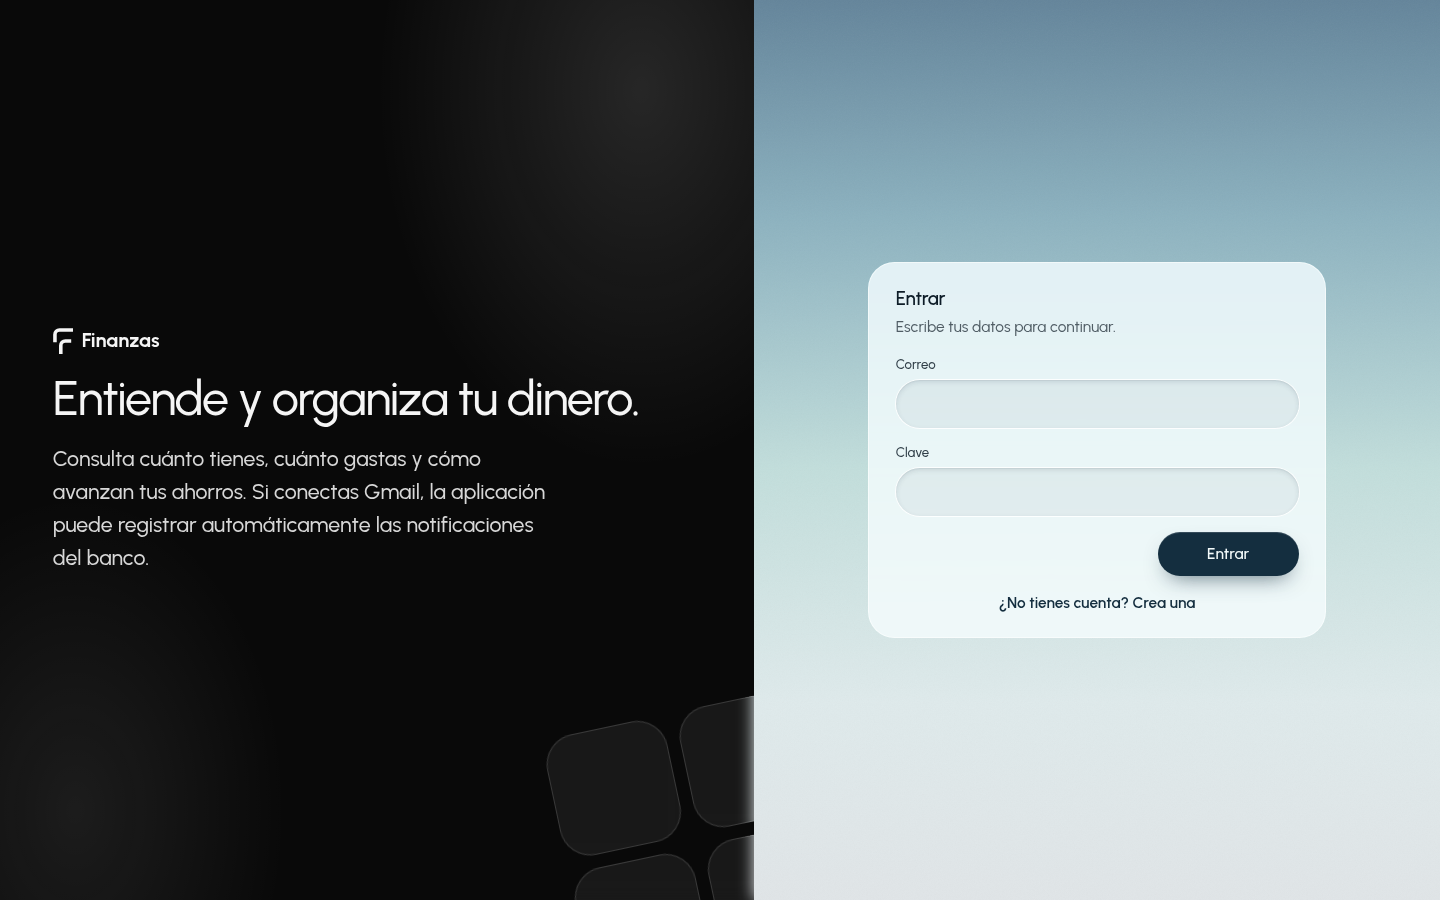
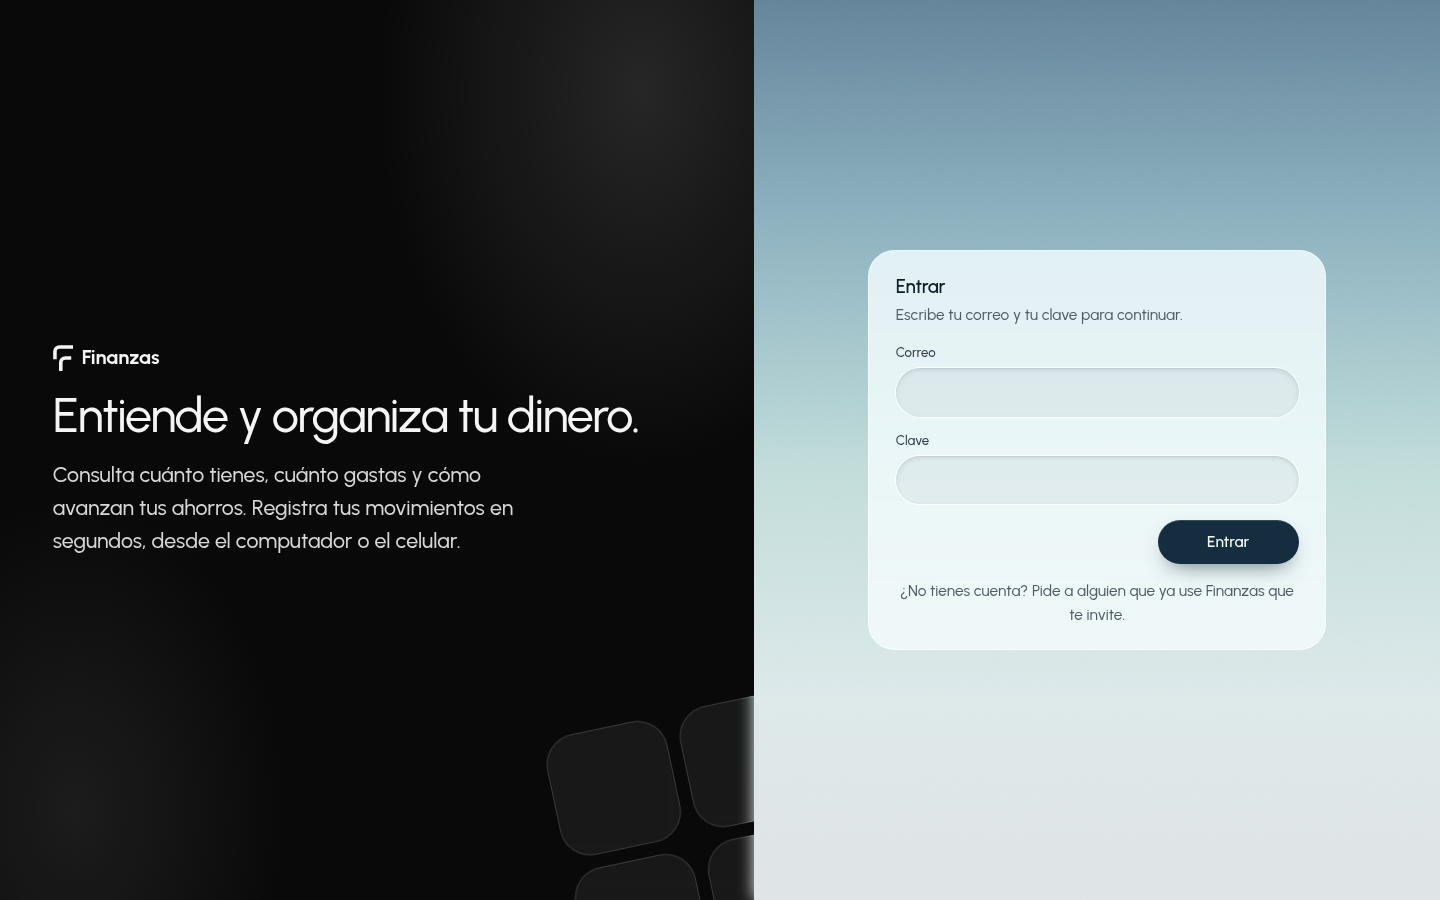
feat: actualizar documentación y mejorar lógica de registro de movimientos recurrentes

diff --git a/scripts/seed.ts b/scripts/seed.ts
@@ -67,7 +67,10 @@ if ((await pb.collection("recurring").getList(1, 1)).totalItems === 0) {
   const acc = (n: string) => accs.find((a) => a.name === n)?.id ?? "";
   const cat = (n: string) => cats.find((c) => c.name === n)?.id ?? "";
   const main = acc("Banco Principal");
-  const today = new Date().toISOString().slice(0, 10);
+  // El plan empieza en el mes del primer movimiento del registro, para que
+  // cubra todo lo importado aunque el registro sea de meses atrás.
+  const first = plan.transactions.reduce((m, t) => (t.date < m ? t.date : m), new Date().toISOString().slice(0, 10));
+  const start = `${first.slice(0, 7)}-01`;
 
   const RECURRING = [
     { name: "Sueldo", kind: "income", amount: 6500000, day_of_month: 1, category: cat("Salario") },
@@ -78,7 +81,7 @@ if ((await pb.collection("recurring").getList(1, 1)).totalItems === 0) {
     { name: "Declaración de renta", kind: "expense", amount: 60000, day_of_month: 1, category: cat("Impuestos") },
   ];
   for (const x of RECURRING) {
-    await pb.collection("recurring").create({ ...x, owner, frequency: "monthly", account: main, start_date: today });
+    await pb.collection("recurring").create({ ...x, owner, frequency: "monthly", account: main, start_date: start });
   }
 
   const SAVINGS = [
@@ -86,8 +89,14 @@ if ((await pb.collection("recurring").getList(1, 1)).totalItems === 0) {
     { name: "Viaje a Cartagena", monthly_amount: 300000, palette: "mono-teal", icon: "airplane-01", annual_rate: 9, account: "Fondo de inversión", target: 4000000 },
     { name: "Retiro", monthly_amount: 100000, palette: "mono-emerald", icon: "umbrella", annual_rate: 10, account: "Fondo de inversión" },
   ];
+  // Un aporte de cada ahorro el día 15 de cada mes del registro, hasta su último movimiento.
+  const last = plan.transactions.reduce((m, t) => (t.date > m ? t.date : m), first);
+  const months: string[] = [];
+  for (let d = new Date(`${start}T12:00:00Z`); d.toISOString().slice(0, 10) <= last; d.setUTCMonth(d.getUTCMonth() + 1)) {
+    if (`${d.toISOString().slice(0, 7)}-15` <= last) months.push(`${d.toISOString().slice(0, 7)}-15`);
+  }
   for (const s of SAVINGS) {
-    await pb.collection("savings").create({
+    const saving = await pb.collection("savings").create({
       owner,
       name: s.name,
       icon: s.icon,
@@ -99,8 +108,18 @@ if ((await pb.collection("recurring").getList(1, 1)).totalItems === 0) {
       allocations: [{ account: acc(s.account) || main, percent: 100 }],
       auto: false,
     });
+    const account = acc(s.account) || main;
+    for (const date of months) {
+      await pb.collection("saving_movements").create({
+        saving: saving.id,
+        account,
+        created_by: owner,
+        amount: s.monthly_amount,
+        date: `${date} 12:00:00.000Z`,
+      });
+    }
   }
-  console.log(`Plan: ${RECURRING.length} fijos y ${SAVINGS.length} ahorros.`);
+  console.log(`Plan: ${RECURRING.length} fijos y ${SAVINGS.length} ahorros con ${months.length} aportes cada uno.`);
 }
 
 console.log(`Listo para ${email}.`);

diff --git a/README.md b/README.md
@@ -19,82 +19,92 @@ Finanzas es una app web para llevar las cuentas de la casa: cuánto entra, cuán
 
 ## Entrar
 
-Cada persona crea su cuenta con su correo y una clave, y solo ve sus propios datos. La pantalla de entrada se adapta al computador y al celular.
+Cada persona entra con su correo y su clave, y solo ve sus propios datos. Las cuentas nuevas se crean **solo por invitación**: quien ya usa la app crea un enlace en *Ajustes → Cuenta y datos → Invitar personas* y se lo envía a la otra persona. Con ese enlace, la persona elige su clave y entra. El enlace sirve una sola vez y vence a los 7 días. En una instalación nueva, sin usuarios, la primera persona crea su cuenta desde la pantalla de entrada.
 
-| En el computador | En el celular |
-|:---:|:---:|
-| <img src="docs/capturas/login.png" alt="Inicio de sesión en el computador" width="560"> | <img src="docs/capturas/movil-login.png" alt="Inicio de sesión en el celular" width="220"> |
+| En el computador | Con un enlace de invitación | En el celular |
+|:---:|:---:|:---:|
+| <img src="docs/capturas/login.png" alt="Pantalla para entrar en el computador" width="380"> | <img src="docs/capturas/invitacion.png" alt="Pantalla para crear la clave con un enlace de invitación" width="380"> | <img src="docs/capturas/movil-login.png" alt="Pantalla para entrar en el celular" width="170"> |
 
 ## ¿Qué puedes hacer?
 
 ### Ver cómo vas este mes
-El **Resumen** te muestra de un vistazo cuánto dinero tienes en total, cuánto entró y salió este mes y, lo más importante, **cuánto te queda libre para gastar** (o cuánto te pasaste). También verás en qué se te fue la plata y cómo van tus ahorros.
+El **Resumen** te muestra de un vistazo tu **saldo neto** (lo que tienes menos lo que debes), **cuánto puedes gastar** todavía este mes y cuánto llevas ahorrado. Debajo está el análisis del mes.
+
+### Entender en qué se va tu plata
+En el análisis, dentro del **Resumen**, comparas ingresos y gastos por semana, mes o año, y los filtras por etiqueta o por cuenta. Un bloque «En pocas palabras» resume lo importante: cuánto te quedó libre, si gastas más o menos que el mes pasado y qué categoría se llevó más. También ves el ritmo de gasto frente al mes anterior y el reparto por categoría, con un presupuesto para cada una.
+
+![Análisis](docs/capturas/analisis.png)
 
 ### Anotar tus movimientos
-Registra **ingresos, gastos y transferencias** entre cuentas. A cada movimiento le puedes poner categoría, notas, etiquetas y hasta **adjuntar la foto de la factura** o un PDF. Puedes buscar y filtrar por cuenta, categoría o tipo.
+Registra **ingresos, gastos y transferencias** entre cuentas. A cada movimiento le puedes poner categoría, notas, etiquetas y hasta **adjuntar la foto de la factura** o un PDF. Puedes buscar por texto o por monto y filtrar por cuenta, categoría, tipo o etiqueta. Los movimientos se ven como lista, calendario, mes a mes o en total. Con clic derecho seleccionas varios y ves cuánto suman.
+
+Al hacer clic en un monto, la app **copia solo los dígitos**, listos para pegar en la app de tu banco. En el celular, deja el dedo sobre el monto hasta que vibre.
 
 ![Movimientos](docs/capturas/movimientos.png)
 
 ### Tener todas tus cuentas juntas
-Banco, tarjeta de crédito, efectivo, billeteras digitales, inversiones… Cada cuenta muestra su saldo y su color. Ves cuánto tienes en total, cuánto está apartado para ahorros y cuánto debes.
+Banco, efectivo, billeteras digitales, inversiones… Cada cuenta muestra su saldo, cuánto tiene **reservado** para tus ahorros y cuánto queda **disponible**. Las **tarjetas de crédito** van aparte, con su cupo, lo que debes y lo que te queda.
 
 ![Cuentas](docs/capturas/cuentas.png)
 
-### Registrar con un asistente
-Además de anotarlos a mano, puedes pedirle a un asistente (Claude, ChatGPT…) que registre tus movimientos por ti: le cuentas «ayer gasté $45.900 en el mercado con la tarjeta» y lo anota. Se conecta con el token de *Ajustes → Acceso por API* (ver «Y además…»). Si le das acceso a tu Gmail, el asistente puede buscar ahí los avisos de tus bancos y registrarlos; la app recuerda qué correos ya revisó, para que ningún asistente registre dos veces el mismo. La app no lee tu correo ni se conecta a tu banco: todo lo que está en ella lo registraste tú o tu asistente.
-
-### Entender en qué se va tu plata
-Debajo del **Resumen**, en el análisis, comparas ingresos y gastos por semana, mes o año, y ves el reparto por categoría con un presupuesto para cada una.
-
-![Análisis](docs/capturas/analisis.png)
-
-### Ahorrar con metas
-Crea ahorros con **meta, aporte mensual y rentabilidad**. La app calcula para cuándo llegas a la meta. Un ahorro se puede repartir entre varias cuentas y **compartir con otra persona** (por ejemplo, un viaje en pareja): cada quien pone su propio aporte al mes y el del ahorro es la suma de todos. Los aportes pueden ser automáticos.
-
-![Ahorros](docs/capturas/ahorros.png)
-
 ### Gastos e ingresos
-En **Gastos e ingresos** programas tus ingresos (sueldo) y tus pagos de cada mes (arriendo, servicios, seguros), y los marcas a medida que ocurren. Arriba, dos tarjetas responden lo importante del mes:
+En **Gastos e ingresos** programas tus ingresos (el sueldo) y tus pagos habituales (arriendo, servicios, seguros), y los marcas a medida que ocurren. Arriba, dos tarjetas responden lo importante del mes:
 
-- **Dinero por reservar**: tus pagos programados, tus ahorros y lo que debes en tarjetas de crédito (lo gastado este mes y lo que viene de meses anteriores).
+- **Dinero por reservar**: tus pagos programados, tus ahorros y lo que debes en tarjetas de crédito.
 - **Disponible para gastar**: lo que te queda de tus ingresos después de reservar todo eso.
 
 > **Ingresos − pagos programados − ahorros − tarjetas de crédito = lo que puedes gastar**
 
-En **Cuentas**, las tarjetas de crédito van aparte, con su cupo, lo que debes y lo que te queda disponible.
+Un movimiento programado puede repetirse cada mes, cada año o pasar una sola vez. Para un pago anual (el seguro, el impuesto del carro) la app te dice cuánto **reservar** cada mes para tenerlo listo. Con el **registro automático**, la app crea el movimiento en su fecha; no hace operaciones en tu banco. Al marcar un pago como hecho, si ya lo habías registrado, la app te propone usar ese movimiento en vez de crear otro.
 
-Además proyecta los próximos 12 meses, tiene un **simulador** y responde preguntas como "¿para cuándo tendría $10.000.000?". Los fijos que marques se crean solos cada mes. Al marcar un pago como hecho, si ya está registrado, la app te propone usar ese movimiento en vez de crear otro.
+![Gastos e ingresos](docs/capturas/gastos-ingresos.png)
 
-![Gastos e ingresos](docs/capturas/plan-futuro.png)
+### Ahorrar con metas
+Crea ahorros con **meta, aporte mensual y rentabilidad**. La app calcula cuándo llegas a la meta y tiene un **simulador** para ver cómo crecería tu ahorro. Un ahorro se puede repartir entre varias cuentas y **compartir con otra persona** (por ejemplo, un viaje en pareja): cada quien pone su propio aporte al mes y el del ahorro es la suma de todos. Los aportes pueden ser automáticos.
+
+![Ahorros](docs/capturas/ahorros.png)
+
+### Registrar con un asistente
+Además de anotarlos a mano, puedes pedirle a un asistente (Claude, ChatGPT…) que registre tus movimientos por ti: le cuentas «ayer gasté $45.900 en el mercado con la tarjeta» y lo anota. Se conecta con el token de *Ajustes → Acceso por API*. Si le das acceso a tu Gmail, el asistente puede buscar ahí los avisos de tus bancos y registrarlos; la app recuerda qué correos ya revisó, para que ningún asistente registre dos veces el mismo. La app no lee tu correo ni se conecta a tu banco: todo lo que está en ella lo registraste tú o tu asistente.
+
+En el token eliges si el asistente solo consulta o también puede cambiar. Es uno solo, no vence y lo puedes volver a ver cuando quieras; copias unas instrucciones listas para pegar en el asistente. El asistente lee la guía en `/api/finanzas/guia` (colecciones, rutas y pasos, generada desde el servidor) y conoce tus movimientos programados: cuáles tocan cada mes, cuáles están vencidos y cuáles ya se pagaron. Antes de marcar un pago puede simularlo (`dry_run`) y mostrarte qué cambiaría.
+
+Debajo del token hay un **contexto para el asistente**: un texto donde anotas, por ejemplo, qué llave o terminación es cada cuenta y en qué categoría va cada comercio. El asistente lo lee al empezar y, con tu visto bueno, le agrega lo que descubra. Ningún token puede cambiar tu clave, invitar personas, cargar un respaldo ni borrar todos tus datos.
+
+![Acceso por API](docs/capturas/acceso-api.png)
 
 ### En el celular
-La app **se instala en el celular** como una aplicación más (desde el navegador: *Agregar a pantalla de inicio*) y tiene una versión hecha para el teléfono, con las mismas secciones y el mismo aspecto que la del computador: abajo **Resumen, Movimientos, Cuentas, Análisis y Más** (Ahorros, Gastos e ingresos y Ajustes). En Movimientos:
+La app **se instala en el celular** como una aplicación más (desde el navegador: *Agregar a pantalla de inicio*) y tiene una versión hecha para el teléfono, con las mismas secciones y el mismo aspecto que la del computador. Abajo están **Resumen, Gastos e ingresos, Ahorros, Movimientos y Más** (Cuentas, Análisis y Ajustes). En Movimientos ves el mes de cuatro maneras:
 
 - **Diario**: tus movimientos día por día, con lo que entró y salió cada día.
 - **Calendario**: el mes completo, con el gasto de cada día a la vista.
 - **Mensual**: el año mes a mes y semana a semana.
 - **Total**: cómo vas con tu presupuesto libre, tus gastos fijos y cada cuenta.
-- **Estadísticas**: en qué se fue la plata, en porcentajes.
-- **Cuentas**: lo que tienes, lo que debes y el balance.
-- **Anotar en segundos**: toca el **+**, escribe el valor, elige categoría y cuenta, y listo.
+
+Para **anotar en segundos**, toca el **+**, escribe el monto, elige categoría y cuenta, y listo.
 
 Además **funciona sin internet**: lo que anotes sin señal se guarda en el teléfono y se envía solo cuando vuelve la conexión.
 
-| Diario | Calendario | Mensual | Total |
+| Resumen | Diario | Calendario | Mensual |
 |:---:|:---:|:---:|:---:|
-| <img src="docs/capturas/movil-diario.png" alt="Diario" width="200"> | <img src="docs/capturas/movil-calendario.png" alt="Calendario" width="200"> | <img src="docs/capturas/movil-mensual.png" alt="Mensual" width="200"> | <img src="docs/capturas/movil-total.png" alt="Total y presupuesto" width="200"> |
-| **Estadísticas** | **Cuentas** | **Anotar un gasto** | **Modo oscuro** |
-| <img src="docs/capturas/movil-estadisticas.png" alt="Estadísticas" width="200"> | <img src="docs/capturas/movil-cuentas.png" alt="Cuentas" width="200"> | <img src="docs/capturas/movil-anotar.png" alt="Anotar un gasto" width="200"> | <img src="docs/capturas/movil-diario-oscuro.png" alt="Modo oscuro en el celular" width="200"> |
+| <img src="docs/capturas/movil-resumen.png" alt="Resumen en el celular" width="200"> | <img src="docs/capturas/movil-diario.png" alt="Movimientos día por día" width="200"> | <img src="docs/capturas/movil-calendario.png" alt="Calendario del mes" width="200"> | <img src="docs/capturas/movil-mensual.png" alt="El año mes a mes" width="200"> |
+| **Total** | **Gastos e ingresos** | **Ahorros** | **Análisis** |
+| <img src="docs/capturas/movil-total.png" alt="Presupuesto y cuentas del mes" width="200"> | <img src="docs/capturas/movil-gastos.png" alt="Gastos e ingresos en el celular" width="200"> | <img src="docs/capturas/movil-ahorros.png" alt="Ahorros en el celular" width="200"> | <img src="docs/capturas/movil-analisis.png" alt="En qué gastaste, por categoría" width="200"> |
+| **Cuentas** | **Anotar un gasto** | **Modo oscuro** | |
+| <img src="docs/capturas/movil-cuentas.png" alt="Cuentas en el celular" width="200"> | <img src="docs/capturas/movil-anotar.png" alt="Anotar un gasto" width="200"> | <img src="docs/capturas/movil-diario-oscuro.png" alt="Modo oscuro en el celular" width="200"> | |
 
 ### Y además…
-- **Modo claro y oscuro**, y un estilo sólido (sin degradados) para quien prefiere colores planos.
-- **Respaldo**: exporta todos tus datos a un archivo y vuelve a cargarlos cuando quieras, incluso en otro servidor.
-- **Varios usuarios**: cada persona se registra con su correo y solo ve sus datos. La clave se cambia en *Ajustes → Cuenta y datos*.
-- **Acceso por API para asistentes**: en *Ajustes → Acceso por API* creas tu token (solo consultar, o consultar y cambiar). Es uno solo, no vence y lo puedes volver a ver cuando quieras; copias unas instrucciones listas para pegar en Claude, ChatGPT u otro asistente. El asistente lee la guía en `/api/finanzas/guia` —colecciones, rutas y pasos, generada desde el servidor— y puede, por ejemplo, registrar los movimientos que le cuentes. También conoce la proyección: qué pagos programados tocan cada mes, cuáles están vencidos y cuáles ya se pagaron, y puede marcarlos. Debajo del token hay un **contexto para el asistente**: un texto donde anotas, por ejemplo, qué llave o terminación es cada cuenta y en qué categoría va cada comercio. El asistente lo lee al empezar y, con tu visto bueno, le agrega lo que descubra al leer tus mensajes del banco. Antes de marcar un pago, el asistente puede simularlo (`dry_run`) y mostrarte qué cambiaría. Ningún token puede cambiar tu clave, cargar un respaldo ni borrar todos tus datos.
+- **Modo claro y oscuro**, un color de fondo a tu gusto y un estilo sólido (sin degradados) para quien prefiere colores planos.
+- **Varios usuarios**, por invitación: cada persona tiene sus propios datos. La clave se cambia en *Ajustes → Cuenta y datos*.
+- **Respaldo de tus datos**: exporta todo a un archivo y vuelve a cargarlo cuando quieras, incluso en otro servidor.
+- **Respaldos automáticos del servidor**: dos veces al día (5:00 y 17:00) se guarda una copia de toda la base de datos. Se conservan las últimas 30.
+- **Atajos de teclado** en el computador: `N` agrega un movimiento y `?` muestra todos los atajos.
 
 ![Modo oscuro](docs/capturas/resumen-oscuro.png)
 
-![Ajustes](docs/capturas/ajustes.png)
+| Ajustes | Invitar personas |
+|:---:|:---:|
+| <img src="docs/capturas/ajustes.png" alt="Ajustes de la cuenta" width="480"> | <img src="docs/capturas/invitaciones.png" alt="Invitar personas desde Ajustes" width="480"> |
 
 ---
 
@@ -132,7 +142,9 @@ Es la forma recomendada. Todo corre en **un solo contenedor**: la base de datos,
    cd /opt/finanzas && docker compose up -d
    ```
 
-   La app queda en el puerto **3434**. Ábrela en el navegador, toca **Crear cuenta** y listo.
+   La app queda en el puerto **3434**. Ábrela en el navegador y crea la primera cuenta. Después, invita a otras personas desde *Ajustes → Cuenta y datos → Invitar personas*.
+
+   Para que escuche solo en el servidor (detrás de un proxy con HTTPS), crea un archivo `.env` junto al `docker-compose.yml` con `PUERTO=127.0.0.1:3434`. La app no necesita otras variables.
 
 4. **(Opcional) Crea el administrador** del panel de la base de datos (`/_/`):
 
@@ -157,7 +169,9 @@ cd /opt/finanzas && docker compose up -d
 
 ### Copias de seguridad
 
-Todo lo importante está en la carpeta `/opt/finanzas/pb_data`. Cópiala de vez en cuando. Cada usuario también puede exportar sus datos desde **Ajustes → Cuenta y datos → Exportar**.
+La app guarda una copia de toda la base de datos dos veces al día, a las 5:00 y a las 17:00, en `/opt/finanzas/pb_data/backups`. Conserva las últimas 30. Puedes cambiarlo o descargar una copia en el panel `/_/` → *Settings → Backups*.
+
+Esas copias quedan en el mismo servidor: cópialas a otro lugar de vez en cuando. Cada usuario también puede exportar sus datos desde **Ajustes → Cuenta y datos → Exportar**.
 
 ---
 
@@ -182,10 +196,12 @@ bun run dev
 
 Eso levanta la API en `:8093` y la web en http://localhost:3434 (descarga PocketBase si falta).
 
-Datos de ejemplo desde un CSV del registro contable (se puede correr varias veces sin duplicar):
+Para cambiar los puertos, copia `.env.example` a `.env` y ajústalo.
+
+Datos de ejemplo desde un CSV del registro contable (se puede correr varias veces sin duplicar). Crea el usuario solo si la base no tiene ninguno; si ya hay cuentas, usa una que exista:
 
 ```bash
-bun run seed -- --email yo@correo.com --password "clave-larga" --name "Yo" --file mi-registro.csv
+bun run seed -- --email demo@ejemplo.com --password "clave-larga" --name "Ana Perez"
 ```
 
 ### Comandos
@@ -204,7 +220,7 @@ bun run seed -- --email yo@correo.com --password "clave-larga" --name "Yo" --fil
 ```
 pocketbase/
   pb_migrations/   esquema (colecciones + reglas por usuario)
-  pb_hooks/        proyección, respaldo, tokens de API, tareas automáticas
+  pb_hooks/        programados, respaldo, invitaciones, tokens de API, tareas automáticas
 src/
   routes/          Resumen (con el análisis), Movimientos, Cuentas, Ahorros, Gastos e ingresos, Ajustes, vista móvil
   components/app/  piezas de la app (formularios, tarjetas, listas)
